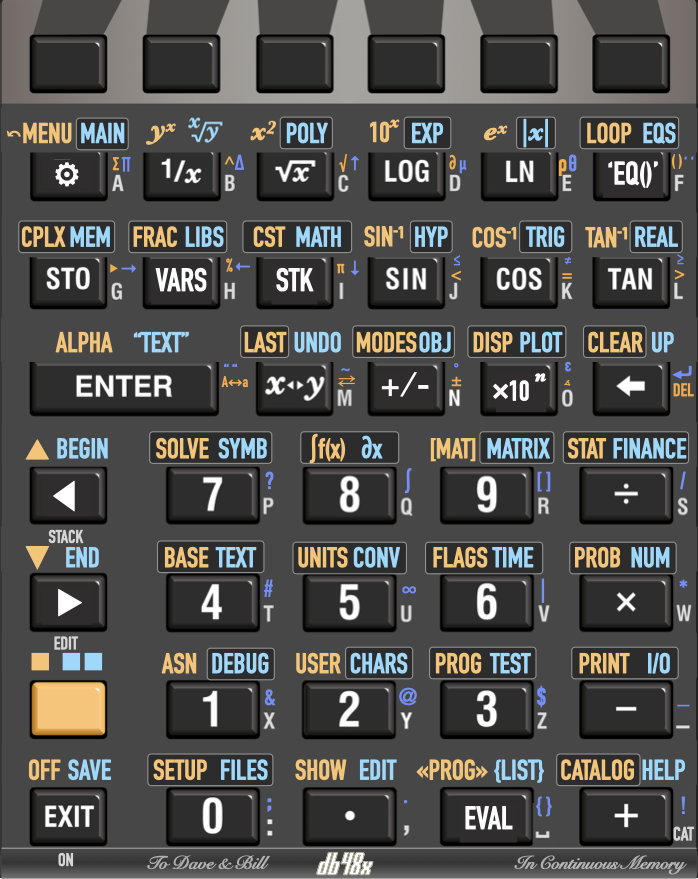
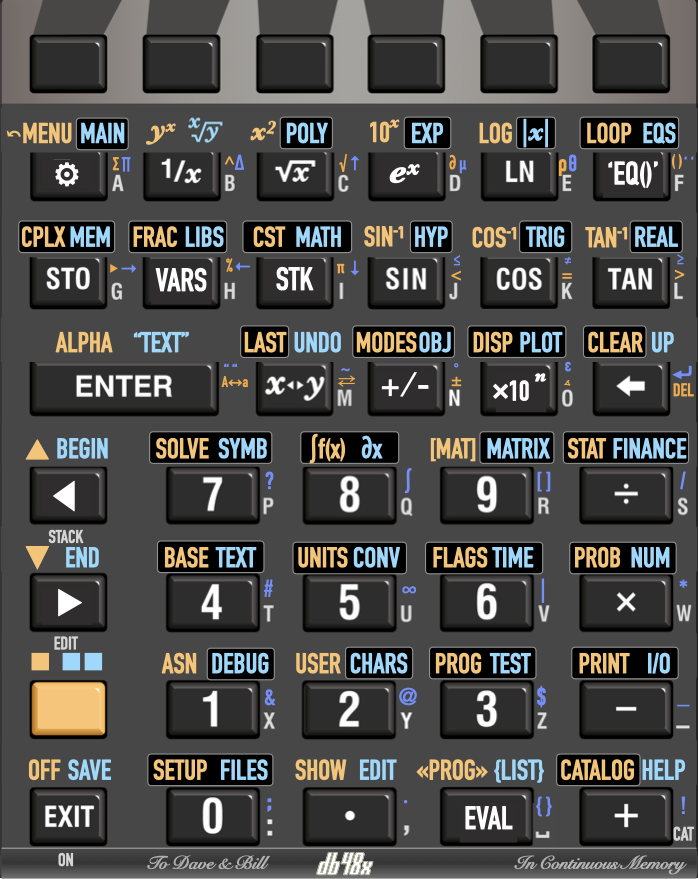
keyboard: Swap 'exp' and 'log' keys
Make the keyboard layout very slightly more efficient by putting `exp'
as a primary key, instead of a shifted key.

This is the first keyboard change that is deliberately incompatible
with the DM42.

diff --git a/src/user_interface.cc b/src/user_interface.cc
@@ -3364,7 +3364,7 @@ static const byte defaultUnshiftedCommand[2*user_interface::NUM_KEYS] =
     OP2BYTES(KEY_SIGMA, menu::ID_ToolsMenu),
     OP2BYTES(KEY_INV,   function::ID_inv),
     OP2BYTES(KEY_SQRT,  function::ID_sqrt),
-    OP2BYTES(KEY_LOG,   function::ID_log10),
+    OP2BYTES(KEY_LOG,   function::ID_exp),
     OP2BYTES(KEY_LN,    function::ID_log),
     OP2BYTES(KEY_XEQ,   0),
     OP2BYTES(KEY_STO,   command::ID_Sto),
@@ -3422,7 +3422,7 @@ static const byte defaultShiftedCommand[2*user_interface::NUM_KEYS] =
     OP2BYTES(KEY_INV,   arithmetic::ID_pow),
     OP2BYTES(KEY_SQRT,  arithmetic::ID_sq),
     OP2BYTES(KEY_LOG,   function::ID_exp10),
-    OP2BYTES(KEY_LN,    function::ID_exp),
+    OP2BYTES(KEY_LN,    function::ID_log10),
     OP2BYTES(KEY_XEQ,   menu::ID_LoopsMenu),
     OP2BYTES(KEY_STO,   menu::ID_ComplexMenu),
     OP2BYTES(KEY_RCL,   menu::ID_FractionsMenu),
